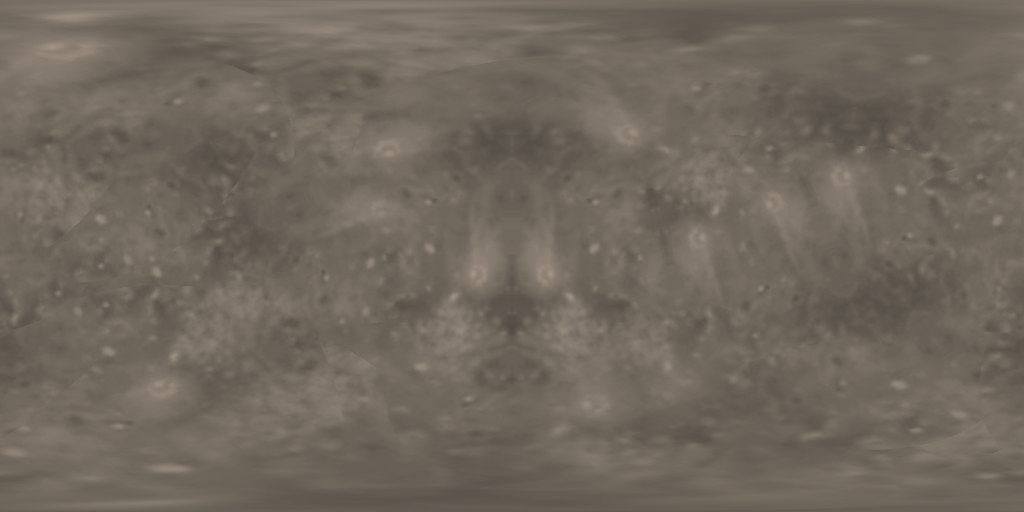
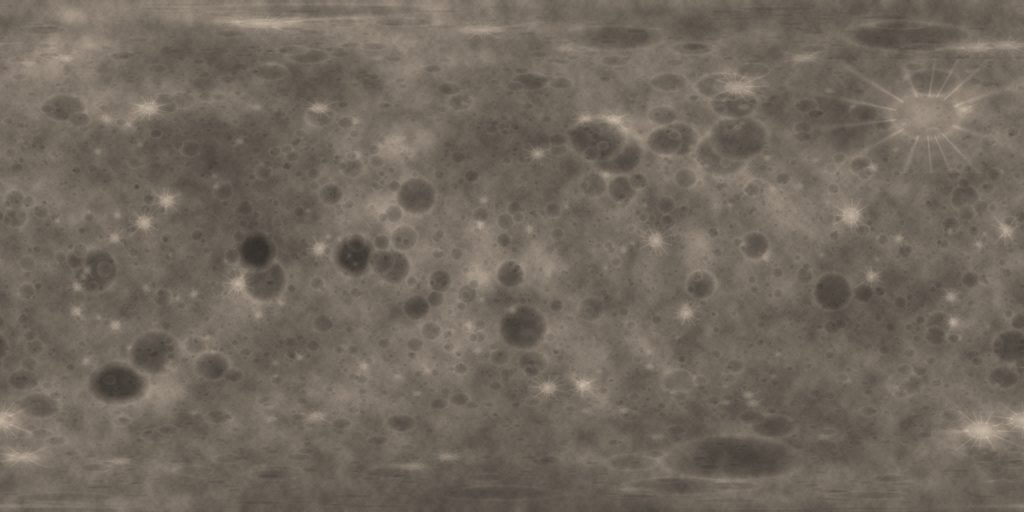
Oberon: sharp cratered surface with real relief shading
Claude-Session: https://claude.ai/code/session_01V2sYW2ZoBfaGjJWEbz54fs

diff --git a/index.html b/index.html
@@ -376,12 +376,16 @@ function prog(vs, fs) { const p = gl.createProgram();
   return { p, u, a }; }
 const HP = '#ifdef GL_FRAGMENT_PRECISION_HIGH\nprecision highp float;\n#else\nprecision mediump float;\n#endif\n';
 const pBody = prog(
-  'attribute vec3 aPos; attribute vec2 aUV; uniform mat4 uVP, uM; uniform vec4 uShape; varying vec3 vN, vW; varying vec2 vUV;' +
+  'attribute vec3 aPos; attribute vec2 aUV; uniform mat4 uVP, uM; uniform vec4 uShape; varying vec3 vN, vW, vTu, vTv; varying vec2 vUV; varying float vS;' +
   'void main(){ vec3 p = aPos; p.yz *= 1. - uShape.x * exp(-p.x * p.x * uShape.z * 3.); p.y += uShape.y * (p.x * p.x - .35);' +
   ' p *= 1. + uShape.w * (sin(p.x * 5. + 1.) * sin(p.y * 4. + 2.) + sin(p.z * 6. + p.x * 3.) * .7);' +
-  ' vec4 w = uM * vec4(p, 1.); vW = w.xyz; vN = mat3(uM) * normalize(mix(aPos, p, .5)); vUV = aUV; gl_Position = uVP * w; }',
-  HP + 'uniform sampler2D uTex, uNight, uCloud; uniform vec3 uSun, uTint, uRim; uniform float uEmis, uNightK, uCloudU; varying vec3 vN, vW; varying vec2 vUV;' +
+  ' vec4 w = uM * vec4(p, 1.); vW = w.xyz; vN = mat3(uM) * normalize(mix(aPos, p, .5)); vUV = aUV; gl_Position = uVP * w;' +
+  ' vS = length(aPos.xz); vTu = mat3(uM) * vec3(aPos.z, 0., -aPos.x); vTv = mat3(uM) * vec3(aPos.x * aPos.y, -vS * vS, aPos.z * aPos.y); }',       // east and south along the surface, for the relief
+  HP + 'uniform sampler2D uTex, uNight, uCloud, uHigh; uniform vec3 uSun, uTint, uRim; uniform float uEmis, uNightK, uCloudU, uBump; varying vec3 vN, vW, vTu, vTv; varying vec2 vUV; varying float vS;' +
   'void main(){ vec3 N = normalize(vN), L = normalize(uSun - vW), V = normalize(-vW);' +
+  // relief: where a body has a height map, the surface is tilted by its slopes, so crater walls catch the light or fall into shadow
+  ' if (uBump > 0.) { vec2 e = vec2(1. / 2048., 0.); float hu = texture2D(uHigh, vUV + e).r - texture2D(uHigh, vUV - e).r, hv = texture2D(uHigh, vUV + e.yx * 2.).r - texture2D(uHigh, vUV - e.yx * 2.).r;' +
+  '   N = normalize(N - uBump * (hu / (2. * max(vS, .2)) * normalize(vTu) + hv * .5 * normalize(vTv))); }' +
   ' vec3 c = texture2D(uTex, vUV).rgb * uTint; float d = max(dot(N, L), 0.), nv = max(dot(N, V), 0.);' +
   ' float cl = uNightK * smoothstep(.04, .8, texture2D(uCloud, vUV + vec2(uCloudU, 0.)).r); c = mix(c, vec3(1.), cl * (.9 + .1 * (1. - nv)));' +
   ' vec3 lit = c * (.02 + .98 * pow(d, .8)) + uRim * pow(1. - nv, 3.) * smoothstep(-.2, .5, dot(N, L));' +
@@ -582,6 +586,7 @@ const BODIES = [
 const uring = document.createElement('canvas'); uring.width = 256; uring.height = 4;
 { const c = uring.getContext('2d'); for (const [x, w, a] of [[30, 3, .35], [70, 2, .3], [118, 3, .3], [160, 2, .35], [226, 9, .8]]) { c.fillStyle = `rgba(190,205,215,${a})`; c.fillRect(x, 0, w, 4); } }
 const TEX = { sky: texture('tex/sky.jpg', [3, 5, 9]), night: texture('tex/earth_night.jpg', [0, 0, 0]), clouds: texture('tex/earth_clouds.jpg', [0, 0, 0]), moon: texture('tex/moon.jpg', [130, 128, 124]), ring: texture('tex/saturn_ring.png', [0, 0, 0, 0]), uring: texture(uring, [0, 0, 0, 0]) };
+TEX.b_oberon = texture('tex/b_oberon.jpg', [128, 128, 128]);       // height map: gives Oberon's craters real light and shadow
 // real surfaces for the spacecraft, cut from NASA photographs: New Horizons's gold foil and Dawn's solar cells. They repeat across the models.
 TEX.c_foil = texture('tex/c_foil.jpg', [190, 160, 60]); TEX.c_foil.rep = 1; TEX.c_cells = texture('tex/c_cells.jpg', [20, 25, 50]); TEX.c_cells.rep = 1;
 // Earth gets sharper maps the first time the viewer goes to Earth, the Moon or the space station, on computers that can hold them.
@@ -1234,18 +1239,19 @@ function frame(now) { const dt = Math.min(.05, (now - last) / 1000 || 0); last =
   gl.uniformMatrix4fv(pBody.u.uVP, false, VP); gl.uniform3fv(pBody.u.uSun, sunRel); gl.uniform1i(pBody.u.uTex, 0);
   gl.uniform1i(pBody.u.uNight, 1); gl.activeTexture(gl.TEXTURE1); gl.bindTexture(gl.TEXTURE_2D, TEX.night);
   gl.uniform1i(pBody.u.uCloud, 2); gl.activeTexture(gl.TEXTURE2); gl.bindTexture(gl.TEXTURE_2D, TEX.clouds); gl.activeTexture(gl.TEXTURE0);
-  gl.uniform1f(pBody.u.uCloudU, (days() / 45 + clock * .0005) % 1);   // the weather drifts slowly over the ground
+  gl.uniform1i(pBody.u.uHigh, 4); gl.uniform1f(pBody.u.uBump, 0); gl.uniform1f(pBody.u.uCloudU, (days() / 45 + clock * .0005) % 1);   // the weather drifts slowly over the ground
   const ROUND = [0, 0, 1, 0], put = (M, tex, tint, rim, emis, night, shape) => { gl.uniformMatrix4fv(pBody.u.uM, false, M); gl.bindTexture(gl.TEXTURE_2D, tex); gl.uniform4fv(pBody.u.uShape, shape || ROUND);
     gl.uniform3fv(pBody.u.uTint, tint); gl.uniform3fv(pBody.u.uRim, rim); gl.uniform1f(pBody.u.uEmis, emis); gl.uniform1f(pBody.u.uNightK, night || 0); };
   const ONE = [1, 1, 1], NONE = [0, 0, 0], PHOTO = [1.12, 1.12, 1.12];
   useMesh(HI); draws.sort((p, q) => q[0] - p[0]); const dNow = days();
   for (const [dist, b, m] of draws) { const o = m || b; if (o.sprite || o.craft || o.r * focal / dist < .35) continue;
+    const hi = TEX['b_' + o.name.toLowerCase()]; gl.uniform1f(pBody.u.uBump, hi ? 20 : 0); if (hi) { gl.activeTexture(gl.TEXTURE4); gl.bindTexture(gl.TEXTURE_2D, hi); gl.activeTexture(gl.TEXTURE0); }
     if (m) { const g = m.sq || ONE; put(mul(mul(trans(m.x - ship.x, m.y - ship.y, m.z - ship.z), m.M || rotY(m.p + clock * .05)), scale(m.r * g[0], m.r * g[1], m.r * g[2])), m.tex ? TEX[m.tex] : TEX.moon, m.tex ? PHOTO : m.tint, m.rim || NONE, 0, 0, m.shape); }
     else { const q = b.sq || ONE, T = trans(b.x - ship.x, b.y - ship.y, b.z - ship.z), real = POLE[b.name], R0 = real ? orient(b.name, dNow, false) : rotX((b.tilt || 0) * DEG);
       b.M0 = mul(T, R0);            // the ring plane follows the real equator
       put(mul(mul(T, real ? orient(b.name, dNow, true) : mul(R0, rotY(clock * b.spin))), scale(b.r * q[0], b.r * q[1], b.r * q[2])), TEX[b.tex], ONE, b.rim || NONE, b.emis || 0, b.night); }
     gl.drawElements(gl.TRIANGLES, HI.n, gl.UNSIGNED_SHORT, 0); }
-  useMesh(LO);
+  gl.uniform1f(pBody.u.uBump, 0); useMesh(LO);
   for (const k of ROCKS) { const dx = k.x - ship.x, dz = k.z - ship.z, d2 = dx * dx + dz * dz; if (d2 > 12100 || dx * f[0] + dz * f[2] < -2 || k.s * focal < .7 * Math.sqrt(d2)) continue;
     put(mul(mul(mul(trans(dx, k.y - ship.y, dz), rotY(k.ry + clock * .1)), rotX(k.rx)), scale(k.s, k.s * k.sy, k.s * k.sz)), TEX.moon, [k.t, k.t * .93, k.t * .86], NONE, 0);
     gl.drawElements(gl.TRIANGLES, LO.n, gl.UNSIGNED_SHORT, 0); }
